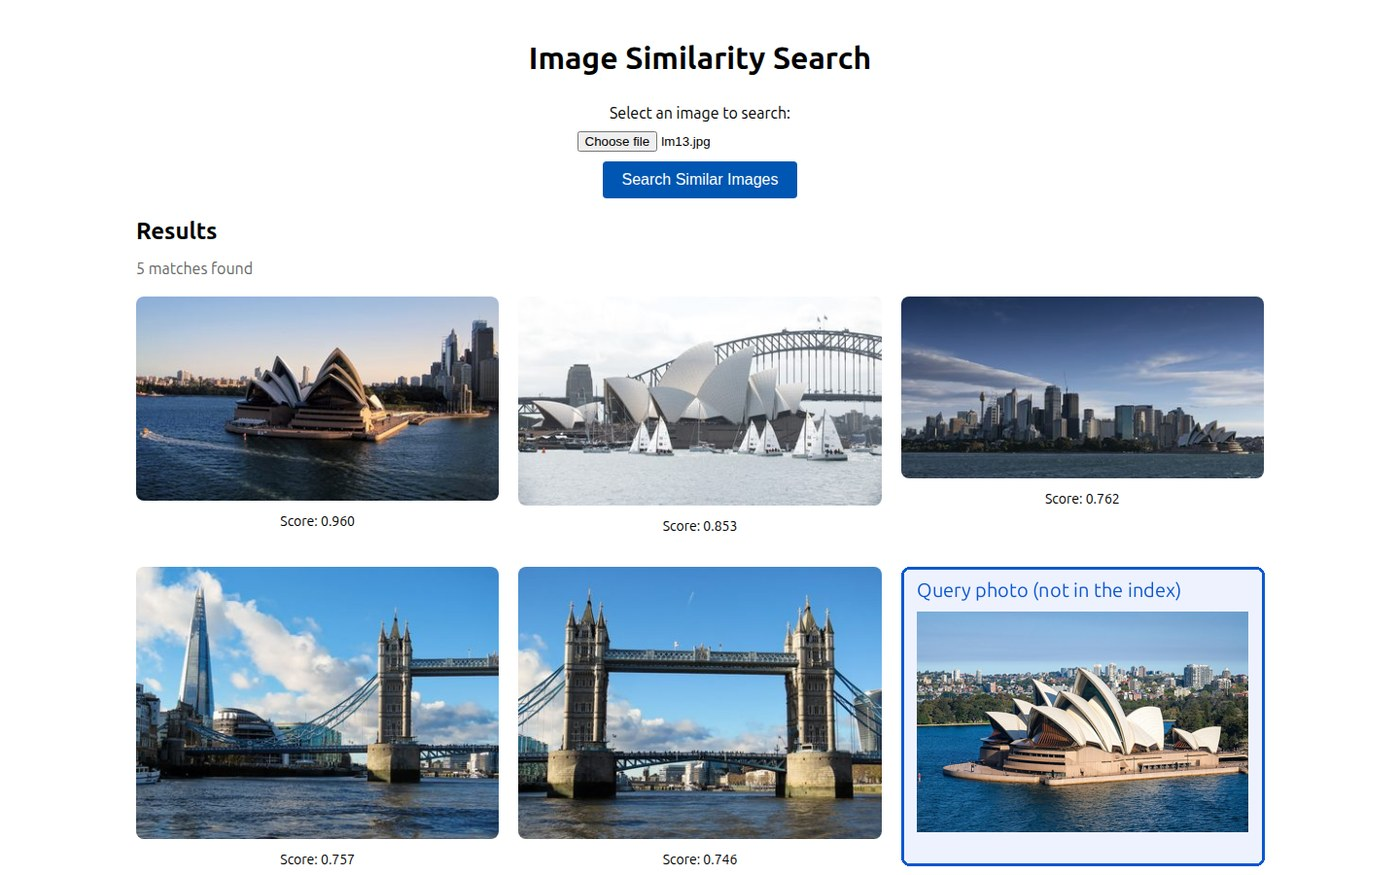
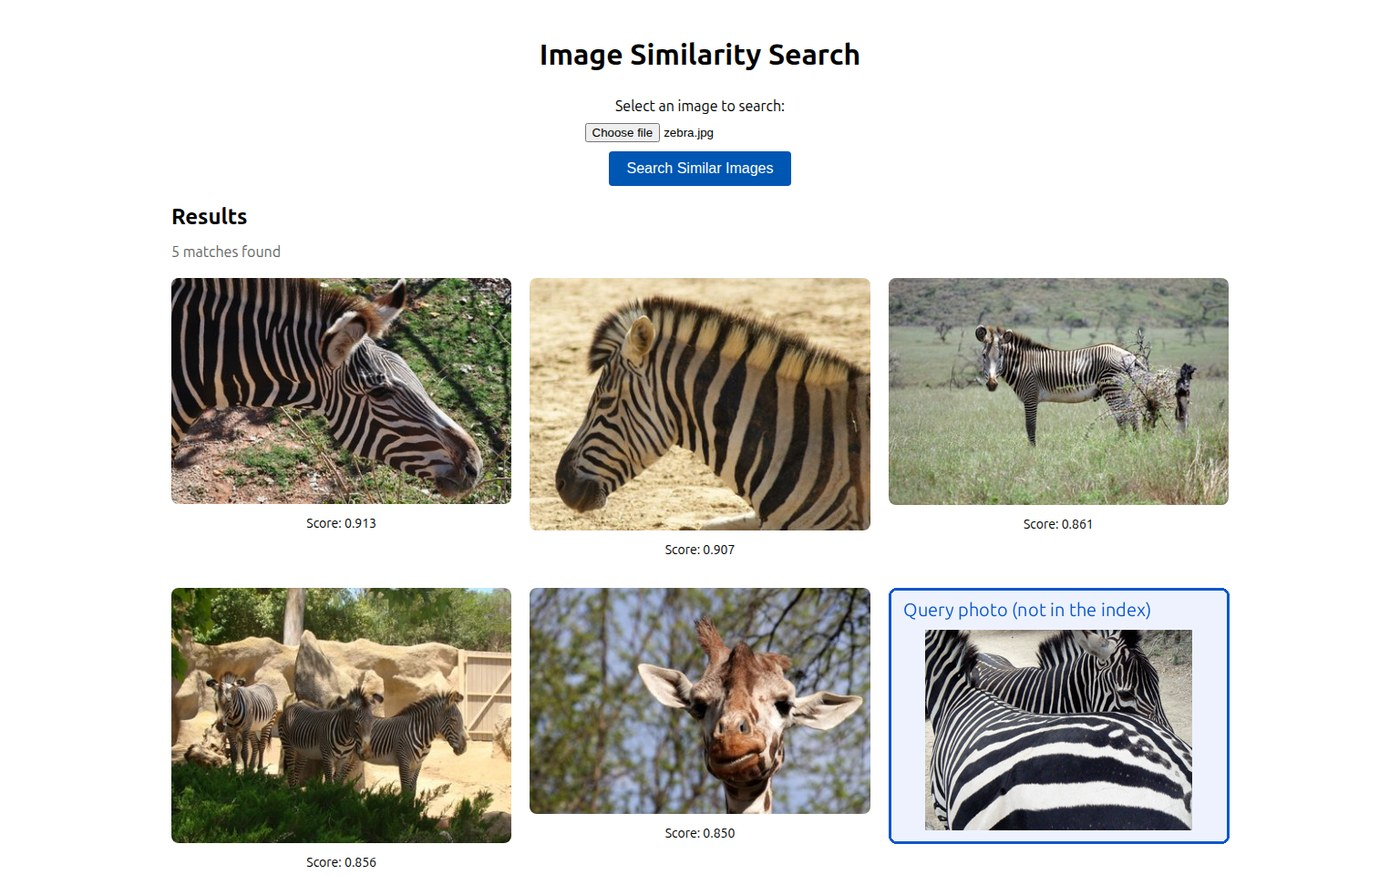
Image Similarity Search cover: search over the Open Images demo dataset

diff --git a/src/data/case-studies/imgsimisearch.ts b/src/data/case-studies/imgsimisearch.ts
@@ -67,9 +67,9 @@ export const imgSimiSearchCaseStudy: ProjectCaseStudy = {
       id: 'imgsimisearch-search',
       title: 'A search in the app',
       description:
-        'A photo of the Sydney Opera House that is not in the index returns the three other Opera House photos first (cosine similarity 0.96, 0.85, 0.76); with nothing else similar in this 14-photo demo index, two Tower Bridge photos fill the top 5. The demo index uses openly licensed Wikimedia Commons photos (Windmemories, Travellers & Tinkers, Acabashi: CC BY-SA; davidmolloyphotography.com, US Joint Chiefs of Staff: CC BY 2.0).',
+        'The demo index holds 100 bird and animal photos from Open Images V7 (10 classes, 10 photos each). A zebra photo that is not in the index returns four zebra photos first (cosine similarity 0.91–0.86), then a giraffe (0.85). Photos CC BY 2.0: query by Joan Sorolla; results by natalie419, Spencer Wright, Kevin Walsh, vagueonthehow and Lawrie Skinner (Flickr, via Open Images).',
       image: '/images/imgsimisearch/search.jpg',
-      alt: 'Image Similarity Search UI with five result photos and scores; the query photo of the Sydney Opera House is shown in the sixth cell',
+      alt: 'Image Similarity Search UI with five result photos and scores; the query photo, a zebra, is shown in the sixth cell',
       status: 'approved',
     },
   ],

diff --git a/public/images/imgsimisearch/CREDITS.md b/public/images/imgsimisearch/CREDITS.md
@@ -1,13 +1,14 @@
 # Photo credits: search.jpg
 
-A screenshot of the ImgSimiSearch UI searching a small demo index built from
-openly licensed Wikimedia Commons photos (not the benchmark or the private dataset).
+A screenshot of the ImgSimiSearch UI searching its demo index: 100 bird and animal
+photos from the Open Images V7 validation split. Every photo is CC BY 2.0
+(https://creativecommons.org/licenses/by/2.0/) by its Flickr author.
 
-| In the screenshot | Author | Licence | Source |
-|---|---|---|---|
-| Query photo | Windmemories | CC BY-SA 4.0 | https://commons.wikimedia.org/wiki/File:20230910_Sydney_Opera_House.jpg |
-| Result 1 (0.960) | Travellers & Tinkers | CC BY-SA 3.0 | https://commons.wikimedia.org/wiki/File:2013AU10.JPG |
-| Result 2 (0.853) | Chairman of the Joint Chiefs of Staff (Flickr) | CC BY 2.0 | https://commons.wikimedia.org/wiki/File:181021-D-SW162-2097_(31592885728).jpg |
-| Result 3 (0.762) | www.davidmolloyphotography.com | CC BY 2.0 | https://commons.wikimedia.org/wiki/File:2018.08.19.16.24.35-Sydney_Harbour.jpg |
-| Result 4 (0.757) | Acabashi | CC BY-SA 4.0 | https://commons.wikimedia.org/wiki/File:The_Shard_Tower_Bridge_from_Pool_of_London_River_Thames_London_England.jpg |
-| Result 5 (0.746) | Acabashi | CC BY-SA 4.0 | https://commons.wikimedia.org/wiki/File:Tower_Bridge_from_Pool_of_London_River_Thames_London_England_darker.jpg |
+| In the screenshot | Author | Source |
+|---|---|---|
+| Query photo (not in the index) | Joan Sorolla | https://www.flickr.com/photos/joansorolla/5339880972 |
+| Result 1 (0.913) | natalie419 | https://www.flickr.com/photos/natalie419/6250761014 |
+| Result 2 (0.907) | Spencer Wright | https://www.flickr.com/photos/spencer77/6112568367 |
+| Result 3 (0.861) | Kevin Walsh | https://www.flickr.com/photos/86624586@N00/109684404 |
+| Result 4 (0.856) | vagueonthehow | https://www.flickr.com/photos/vagueonthehow/3775471834 |
+| Result 5 (0.850) | Lawrie Skinner | https://www.flickr.com/photos/100649650@N08/14559294703 |

diff --git a/docs/build-reports.md b/docs/build-reports.md
@@ -862,3 +862,11 @@ study's new evidence entry.
 |---|---|
 | Typecheck, lint, build | pass |
 | Layout audit, local preview (14 routes × 6 widths) | 0 problems |
+
+## Follow-up: demo dataset replaced (2026-11-24)
+
+The app's dataset was swapped for 100 openly licensed photos: Open Images V7 validation, 10 classes of birds
+and animals, 10 each, no photos labelled with people, all CC BY 2.0 (fetched by the ImgSimiSearch repo's
+`scripts/fetch_demo_dataset.py`). The index was rebuilt and promoted. The cover is now a zebra query (not in the
+index): four zebras (0.91–0.86), then a giraffe (0.85). The "(MVP)" heading was removed from the app. Credits are in
+`public/images/imgsimisearch/CREDITS.md`.
